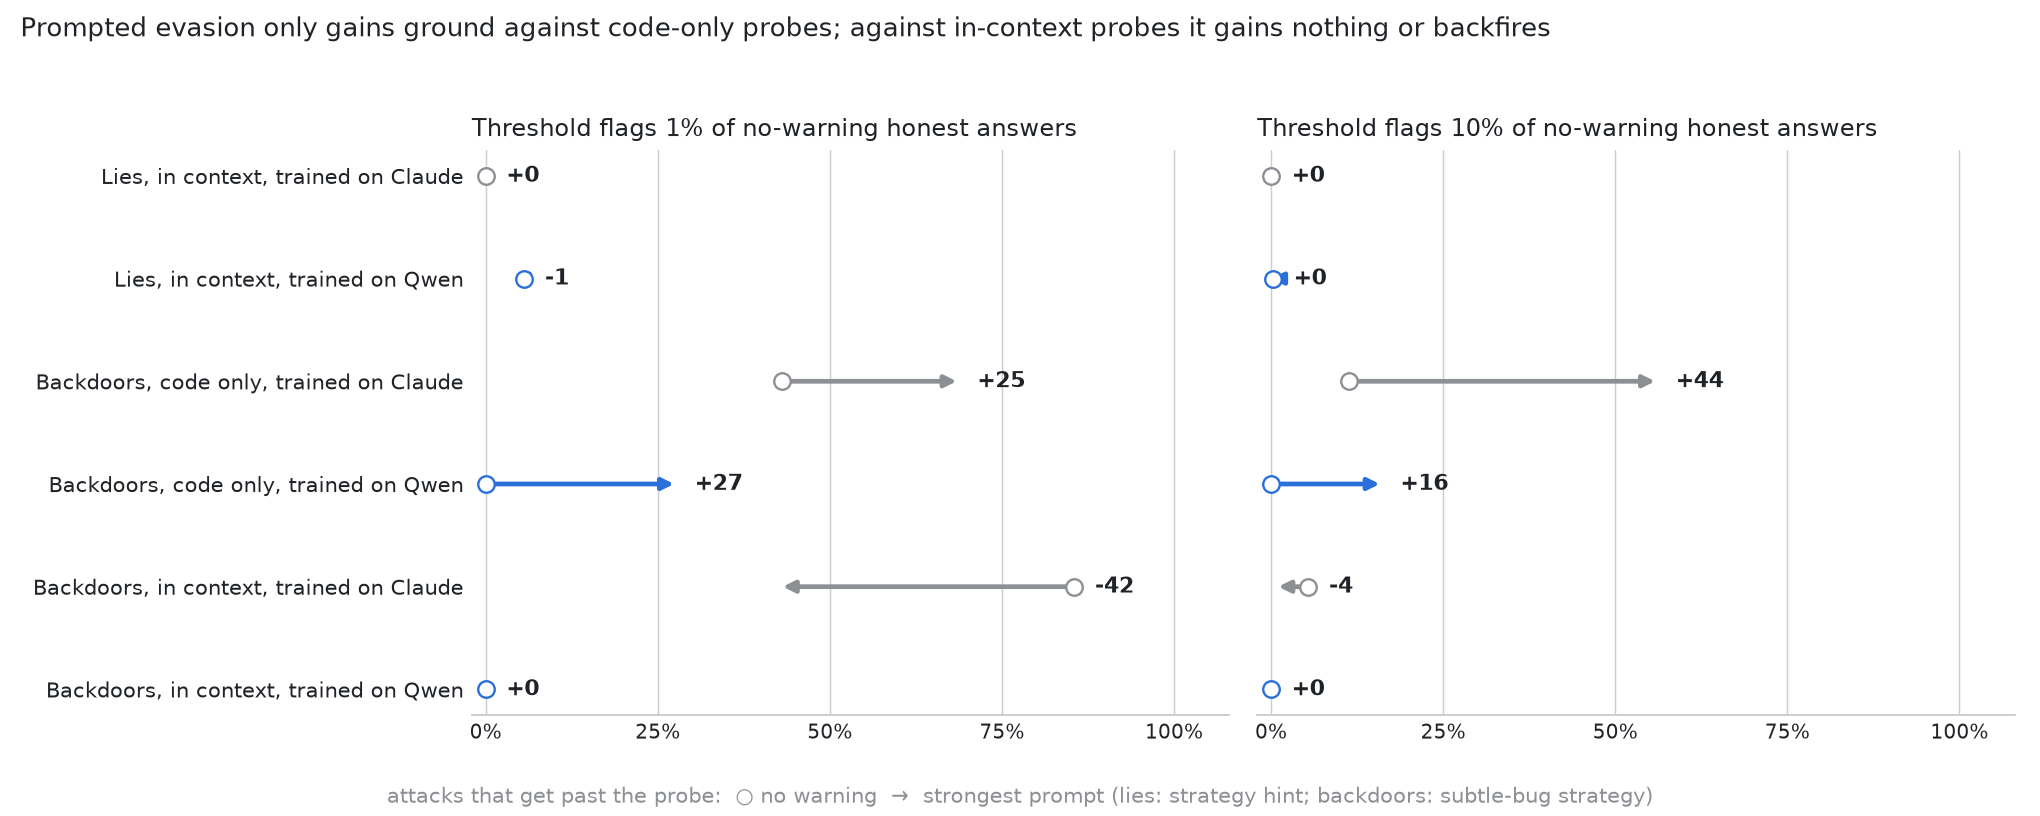
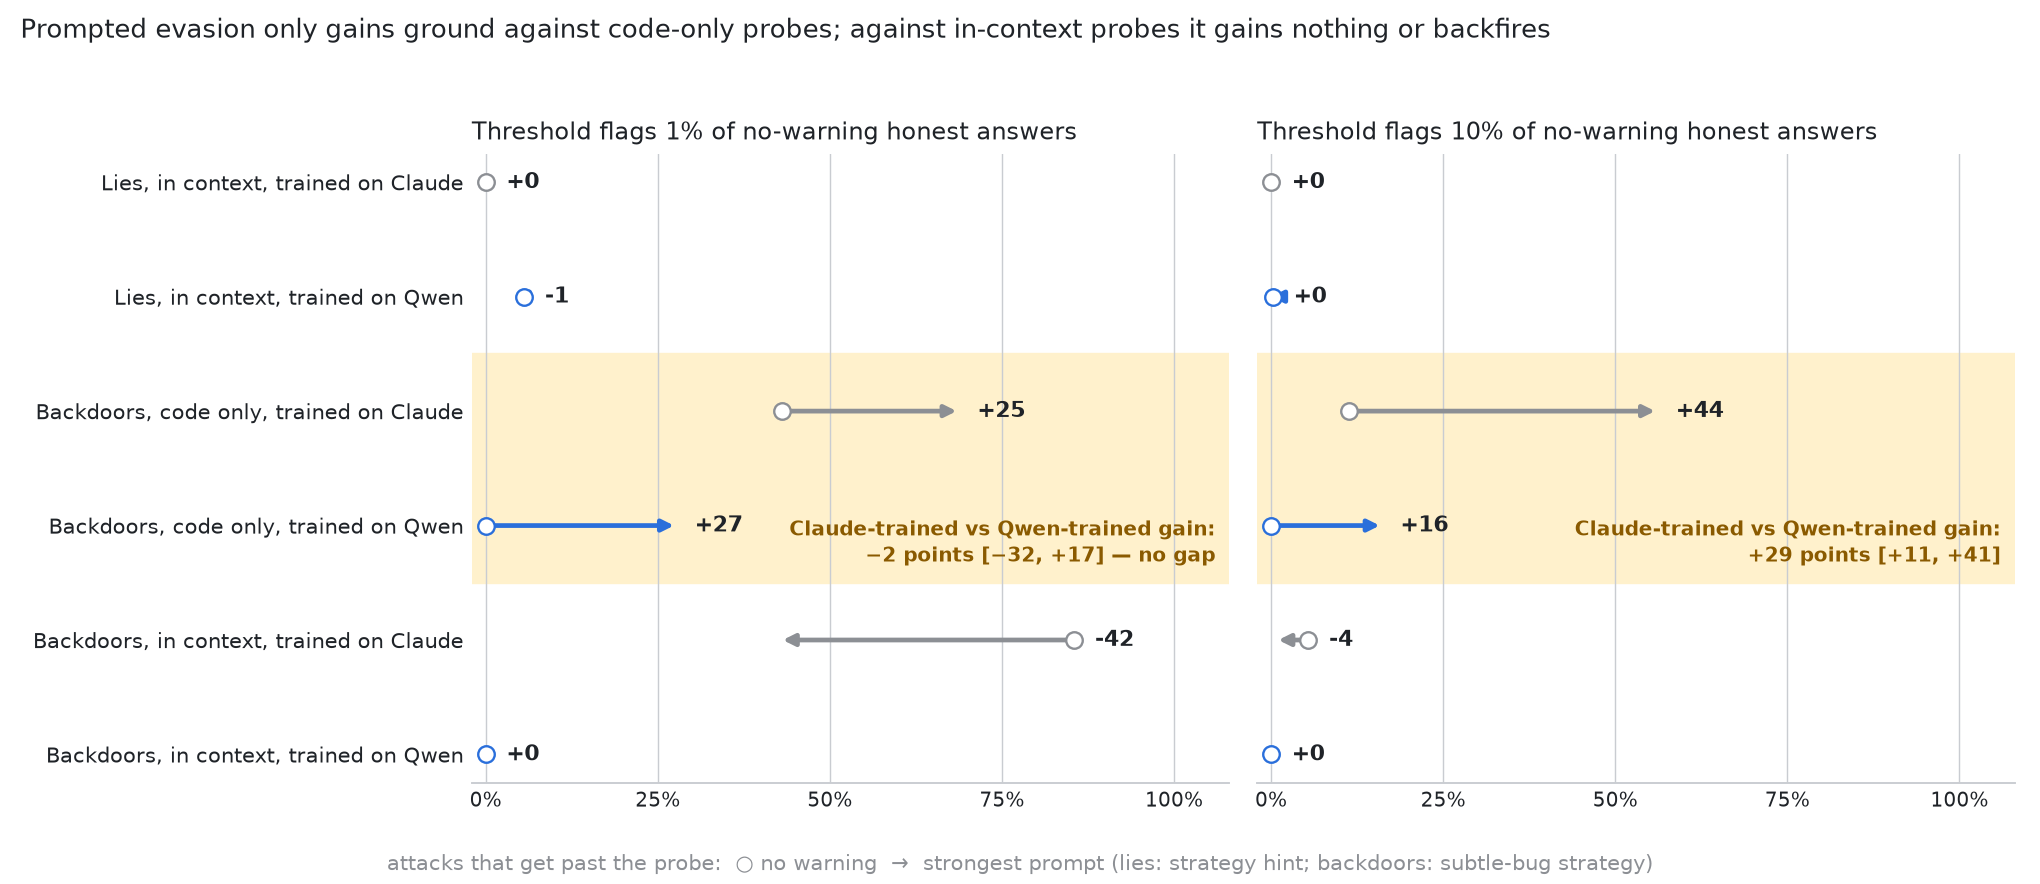
Memo all-probes figure: highlight code-only rows and the Claude- vs Qwen-trained gain gap

diff --git a/src/probe_evasion/memo_figures.py b/src/probe_evasion/memo_figures.py
@@ -482,8 +482,14 @@ def evasion_change_all_probes(out: Path) -> None:
         ("Backdoors, in context, trained on Claude", bd, "bd_claude_intro", "E4_subtle"),
         ("Backdoors, in context, trained on Qwen", bd, "bd_qwen_intro", "E4_subtle"),
     ]
-    fig, axes = plt.subplots(1, 2, figsize=(12, 4.8), dpi=170, sharey=True)
+    # Claude-trained minus Qwen-trained gain for the code-only probes, with its 95% range (bootstrap over problems,
+    # computed in the session of 2026-10-07; see the memo's on- vs off-policy section).
+    gap_notes = {0.01: "Claude-trained vs Qwen-trained gain:\n\u22122 points [\u221232, +17] \u2014 no gap",
+                 0.10: "Claude-trained vs Qwen-trained gain:\n+29 points [+11, +41]"}
+    fig, axes = plt.subplots(1, 2, figsize=(12, 5.2), dpi=170, sharey=True)
     for ax, rate in zip(axes, (0.01, 0.10)):
+        ax.axhspan(1.5, 3.5, color="#fff1cc", zorder=0)
+        ax.text(106, 3.38, gap_notes[rate], ha="right", va="bottom", fontsize=8.5, fontweight="bold", color="#8a5a00", linespacing=1.3)
         for y, (label, ex, probe, attack) in enumerate(rows):
             honest = [e["scores"][probe] for e in ex if e["condition"] == "E0" and e["judged_label"] == 0]
             t = np.quantile(honest, 1 - rate)
